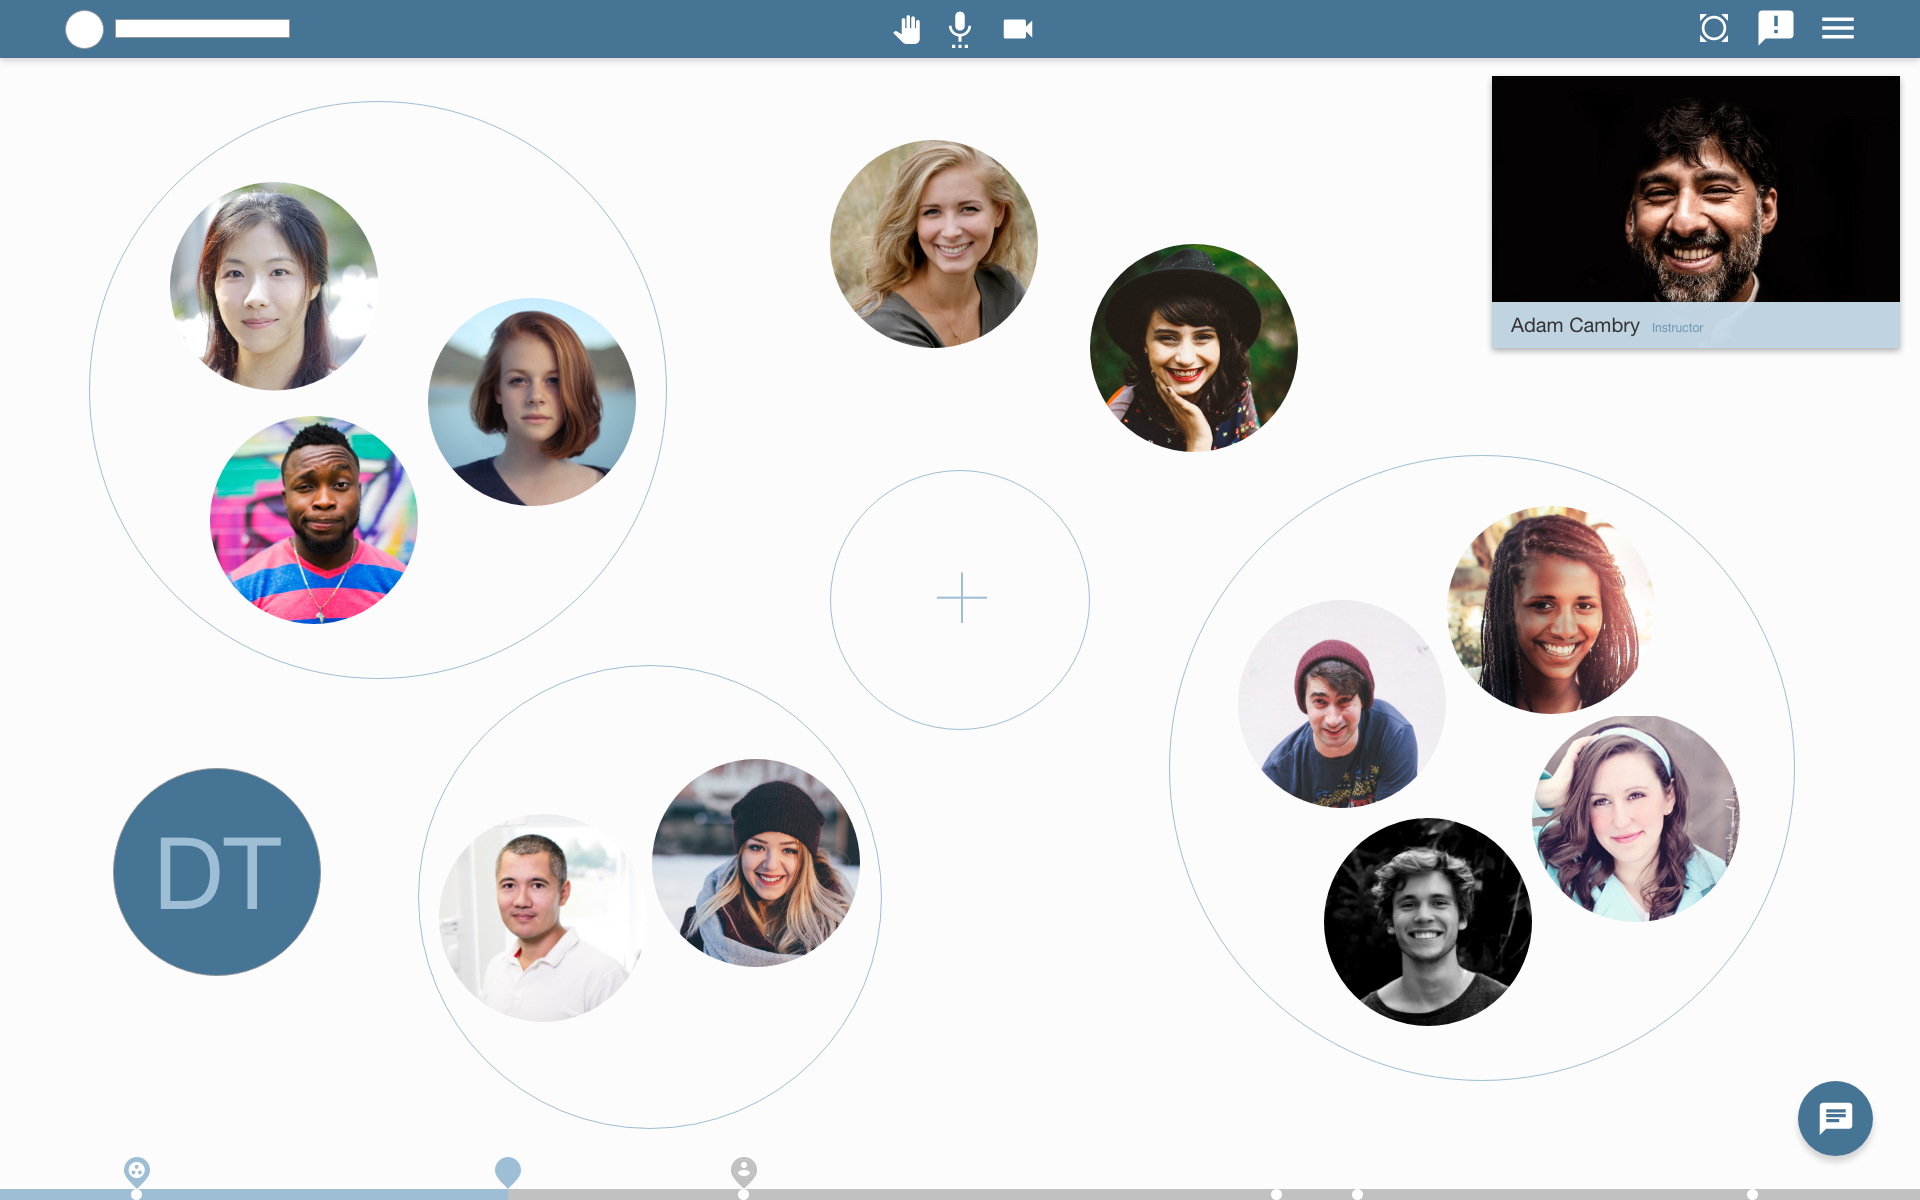
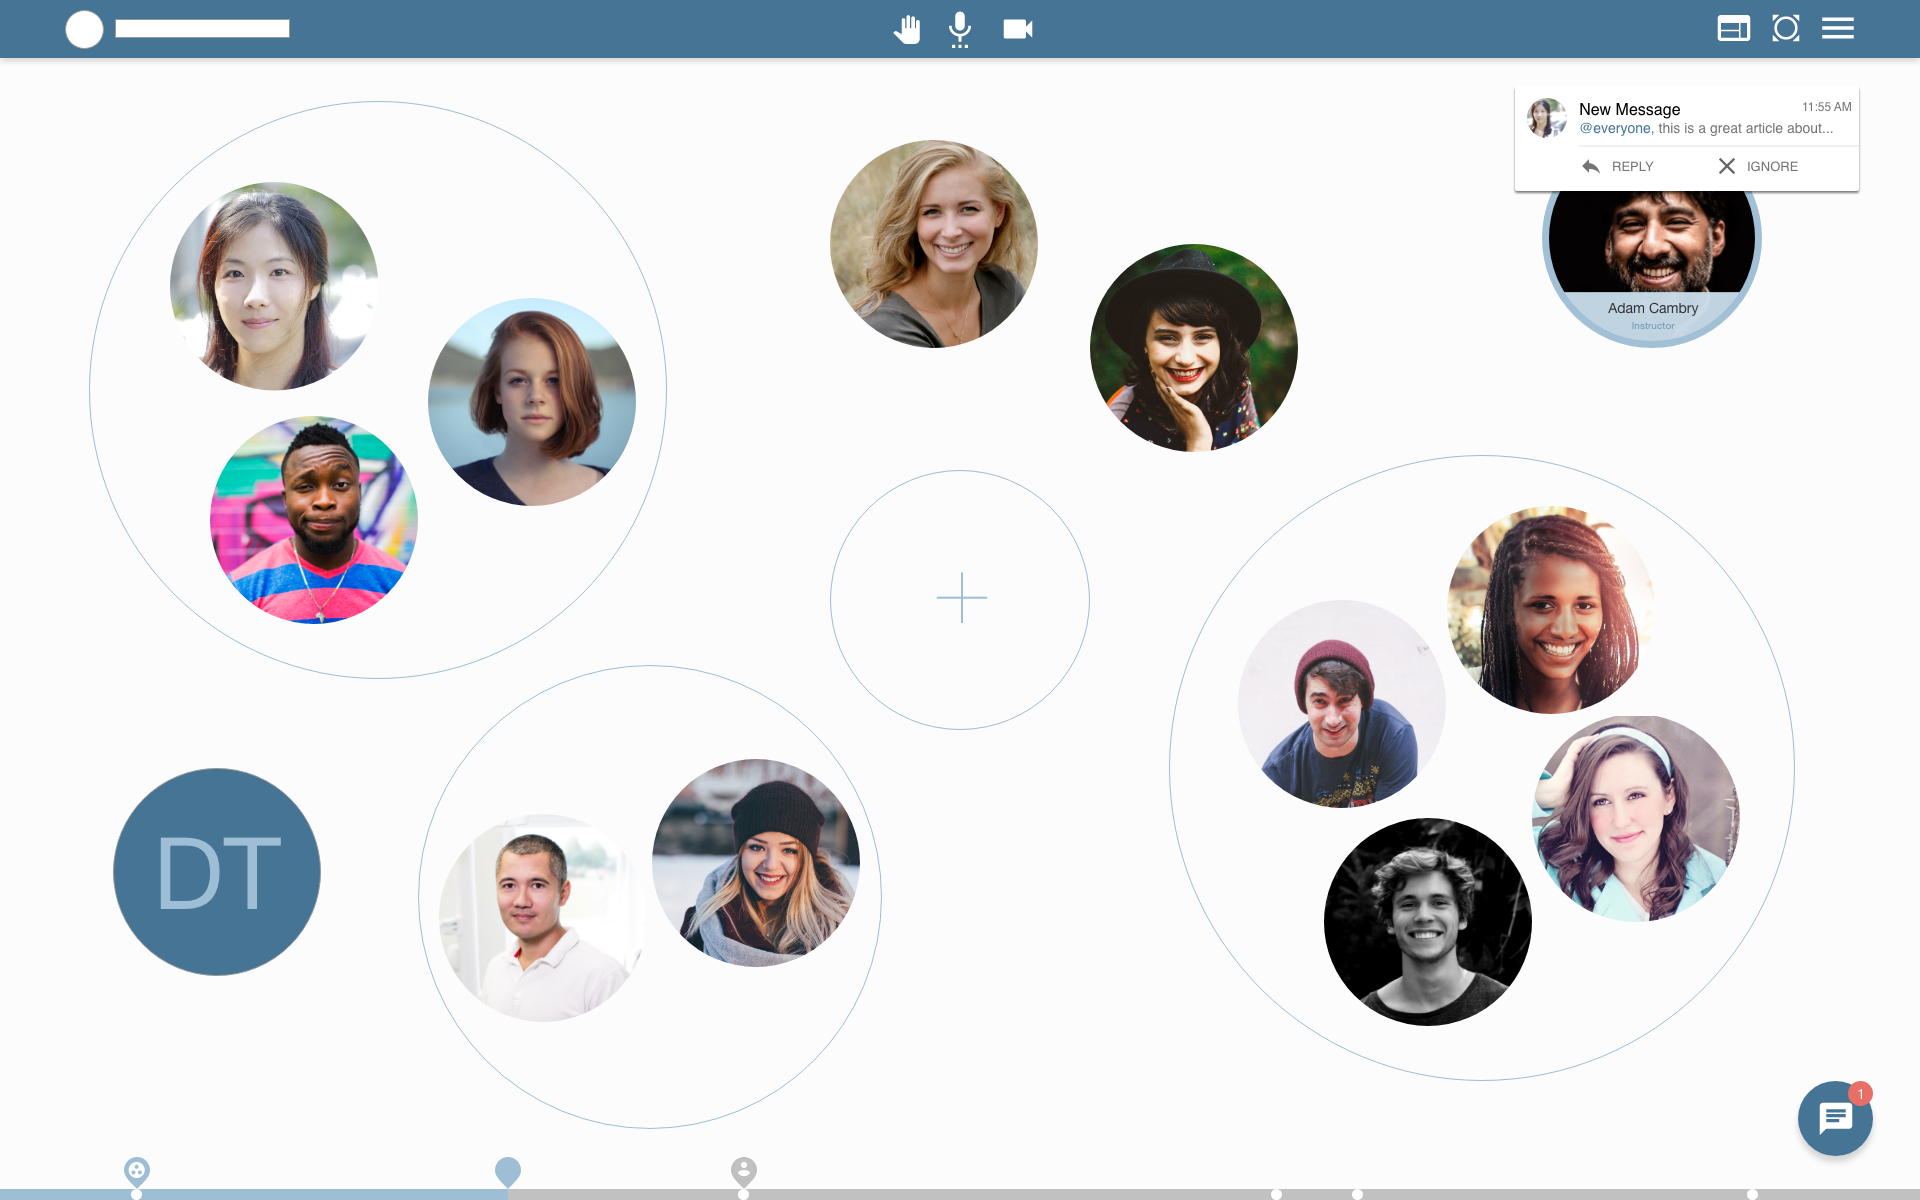
updated home screen and text

Changed region(s): [[0.75, 0.0617, 1.0, 0.3083], [0.9375, 0.8942, 1.0, 0.925], [0.875, 0.0, 0.9375, 0.0308]]

diff --git a/index.html b/index.html
@@ -35,7 +35,7 @@
       <div class="cd-product">
 		<div class="cd-product-intro">
 			<h1>Acdmy</h1>
-			<p class="color-2">Synchronous online learning design concept. Design by educators, for educators.</p>
+			<p class="color-2">Synchronous online learning design concept. Designed by educators, for educators.</p>
 			<div class="cd-triggers">
 				<a href="#learn-more" class="cd-btn">Learn more</a>
 				<a href="#cd-product-tour" id="cd-start" class="cd-btn btn-explore">Explore</a>
@@ -50,7 +50,7 @@
 					<div class="cd-more-info cd-left">
 						<h2>Create a Group</h2>
 						<p>
-							Groups can be created intuitively using a simple drag and drop interface. Any user circle is dragged into the center and dropped to create a new group. Users are added or removed from groups by dragging them in or out of the group circles on screen. 
+							Groups can be created intuitively using a simple drag and drop interface. Any user circle is dragged into the center or up to another avatar on screen to create new groups on the fly.
 						</p>
 						<a href="#0" class="cd-close-info cd-img-replace">Close</a>
 					</div>
@@ -61,7 +61,7 @@
 					<div class="cd-more-info cd-bottom">
 						<h2>Dynamic Options</h2>
 						<p>
-							While settings and other options can be accessed at all times in the menu, featured bottons along the top nav change dynamically based on the current needs of the user. In the groups mode (current), for example, group messaging and ending groups buttons are added.  
+							While settings and other options can be accessed at all times in the menu, featured bottons along the top nav change dynamically based on the current needs of the user.  
 						</p>
 						<a href="#0" class="cd-close-info cd-img-replace">Close</a>
 					</div>
@@ -72,7 +72,7 @@
 					<div class="cd-more-info cd-right">
 						<h2>Visual Groups</h2>
 						<p>
-							Groups are visualized on screen inside bubbles. These bubbles can grow or shrink in size dynamically as users are dragged and dropped in or out of groups. Users inside of groups see an interface which maximizes oportunities for collaboration. 
+							Groups are visualized on screen inside bubbles. These bubbles can grow or shrink in size dynamically as users are dragged and dropped in or out of groups.
 						</p>
 						<a href="#0" class="cd-close-info cd-img-replace">Close</a>
 					</div>
@@ -81,9 +81,9 @@
                 <li class="cd-single-point">
 					<a class="cd-img-replace" href="#0">More info</a>
 					<div class="cd-more-info cd-top">
-						<h2>Timeline</h2>
+						<h2>Session Flow</h2>
 						<p>
-							A timeline can be set up for class activities. As the class moves along, moving to pre-set activities is quick and intuitive including adjusting the layout, creating groups, and updating the information on screen. Everyone can visually see what is coming. 
+							A timeline can be set up for class activities. As the class moves along, moving to pre-set activities is quick and intuitive including adjusting the layout, creating groups, and updating the information on screen. 
 						</p>
 						<a href="#0" class="cd-close-info cd-img-replace">Close</a>
 					</div>
@@ -94,7 +94,17 @@
 					<div class="cd-more-info cd-right">
 						<h2>Visual Avatars</h2>
 						<p>
-							Every user is represented with a visual "avatar" or photo of their face instead of an inpersonal list participant names. Full names can be seen when hovering over a user's avatar. If no photo is added, initials can identify each participant.  
+							Every user is represented with a visual "avatar" or photo of their face or initials instead of an inpersonal list participant names. Full names can be seen when hovering over a user's avatar.
+						</p>
+						<a href="#0" class="cd-close-info cd-img-replace">Close</a>
+					</div>
+				</li> <!-- .cd-single-point -->
+                <li class="cd-single-point">
+					<a class="cd-img-replace" href="#0">More info</a>
+					<div class="cd-more-info cd-top">
+						<h2>Persistent Chat</h2>
+						<p>
+							A chat is always available and remains consistent across formal and informal meeting times. Users can be @mentioned, files uploaded and shared, and users can like or reply to each other's comments.   
 						</p>
 						<a href="#0" class="cd-close-info cd-img-replace">Close</a>
 					</div>
@@ -111,7 +121,7 @@
         <div class="container">
         
 <!--          <h2>About Acdmy</h2>-->
-          <p>Acdmy is a design concept for what a truly good synchronous online learning platform should look like if it were designed by educators, for educators. Although it is envisioned as a way for a group of people to meet online and communicate/collaborate in real time using video, audio, text, etc., Acdmy is imagined to be different.</p>
+          <p>Acdmy is a design concept for a synchronous online learning platform. It is designed with educators in mind. Although it is envisioned as a way for a group of people to meet online and communicate/collaborate in real time using video, audio, text, etc., Acdmy is imagined to be different.</p>
           <p>It is not a web conferencing platform. It is an online learning environment conducive to student interaction in both formal and informal ways. It is based on concepts grounded in educational theory and the learning science to promote social and emotional presence, practical inquiry, motivation, and active learning. It is an ongoing project and an ever-changing one.</p>
           <p>The working prototype has the latest ideas I've thought of. Please view and comment! If you have ideas or want to get in touch, I would love to hear from you at <a href="mailto:hello@dwthurber.com">hello@dwthurber.com</a>.</p>
         </div>
@@ -123,7 +133,7 @@
           </div>
           <div class="half-block">
             <h3 class="color-1">Design Prototype</h3>
-            <p class="color-4">A limited-fidelity mockup of the components of the design concept as conceived thus far. The prototype is constantly updated. </p>
+            <p class="color-4">A limited-fidelity mockup of the components of the design concept as conceived thus far. The prototype is regularly updated. </p>
             <a href="https://xd.adobe.com/view/8bc6e127-ec21-41c9-82e6-48911dad744b/" target="_blank" class="cd-btn btn-light">View Prototype</a>
           </div>
         </div>

diff --git a/css/style.css b/css/style.css
@@ -523,6 +523,10 @@ Main components
   bottom: 32%;
   left: 14%;
 }
+.cd-single-point:nth-of-type(6) {
+  bottom: 8%;
+  right: 5%;
+}
 .cd-single-point.is-open > a {
   background-color: #cccccc;
 }
